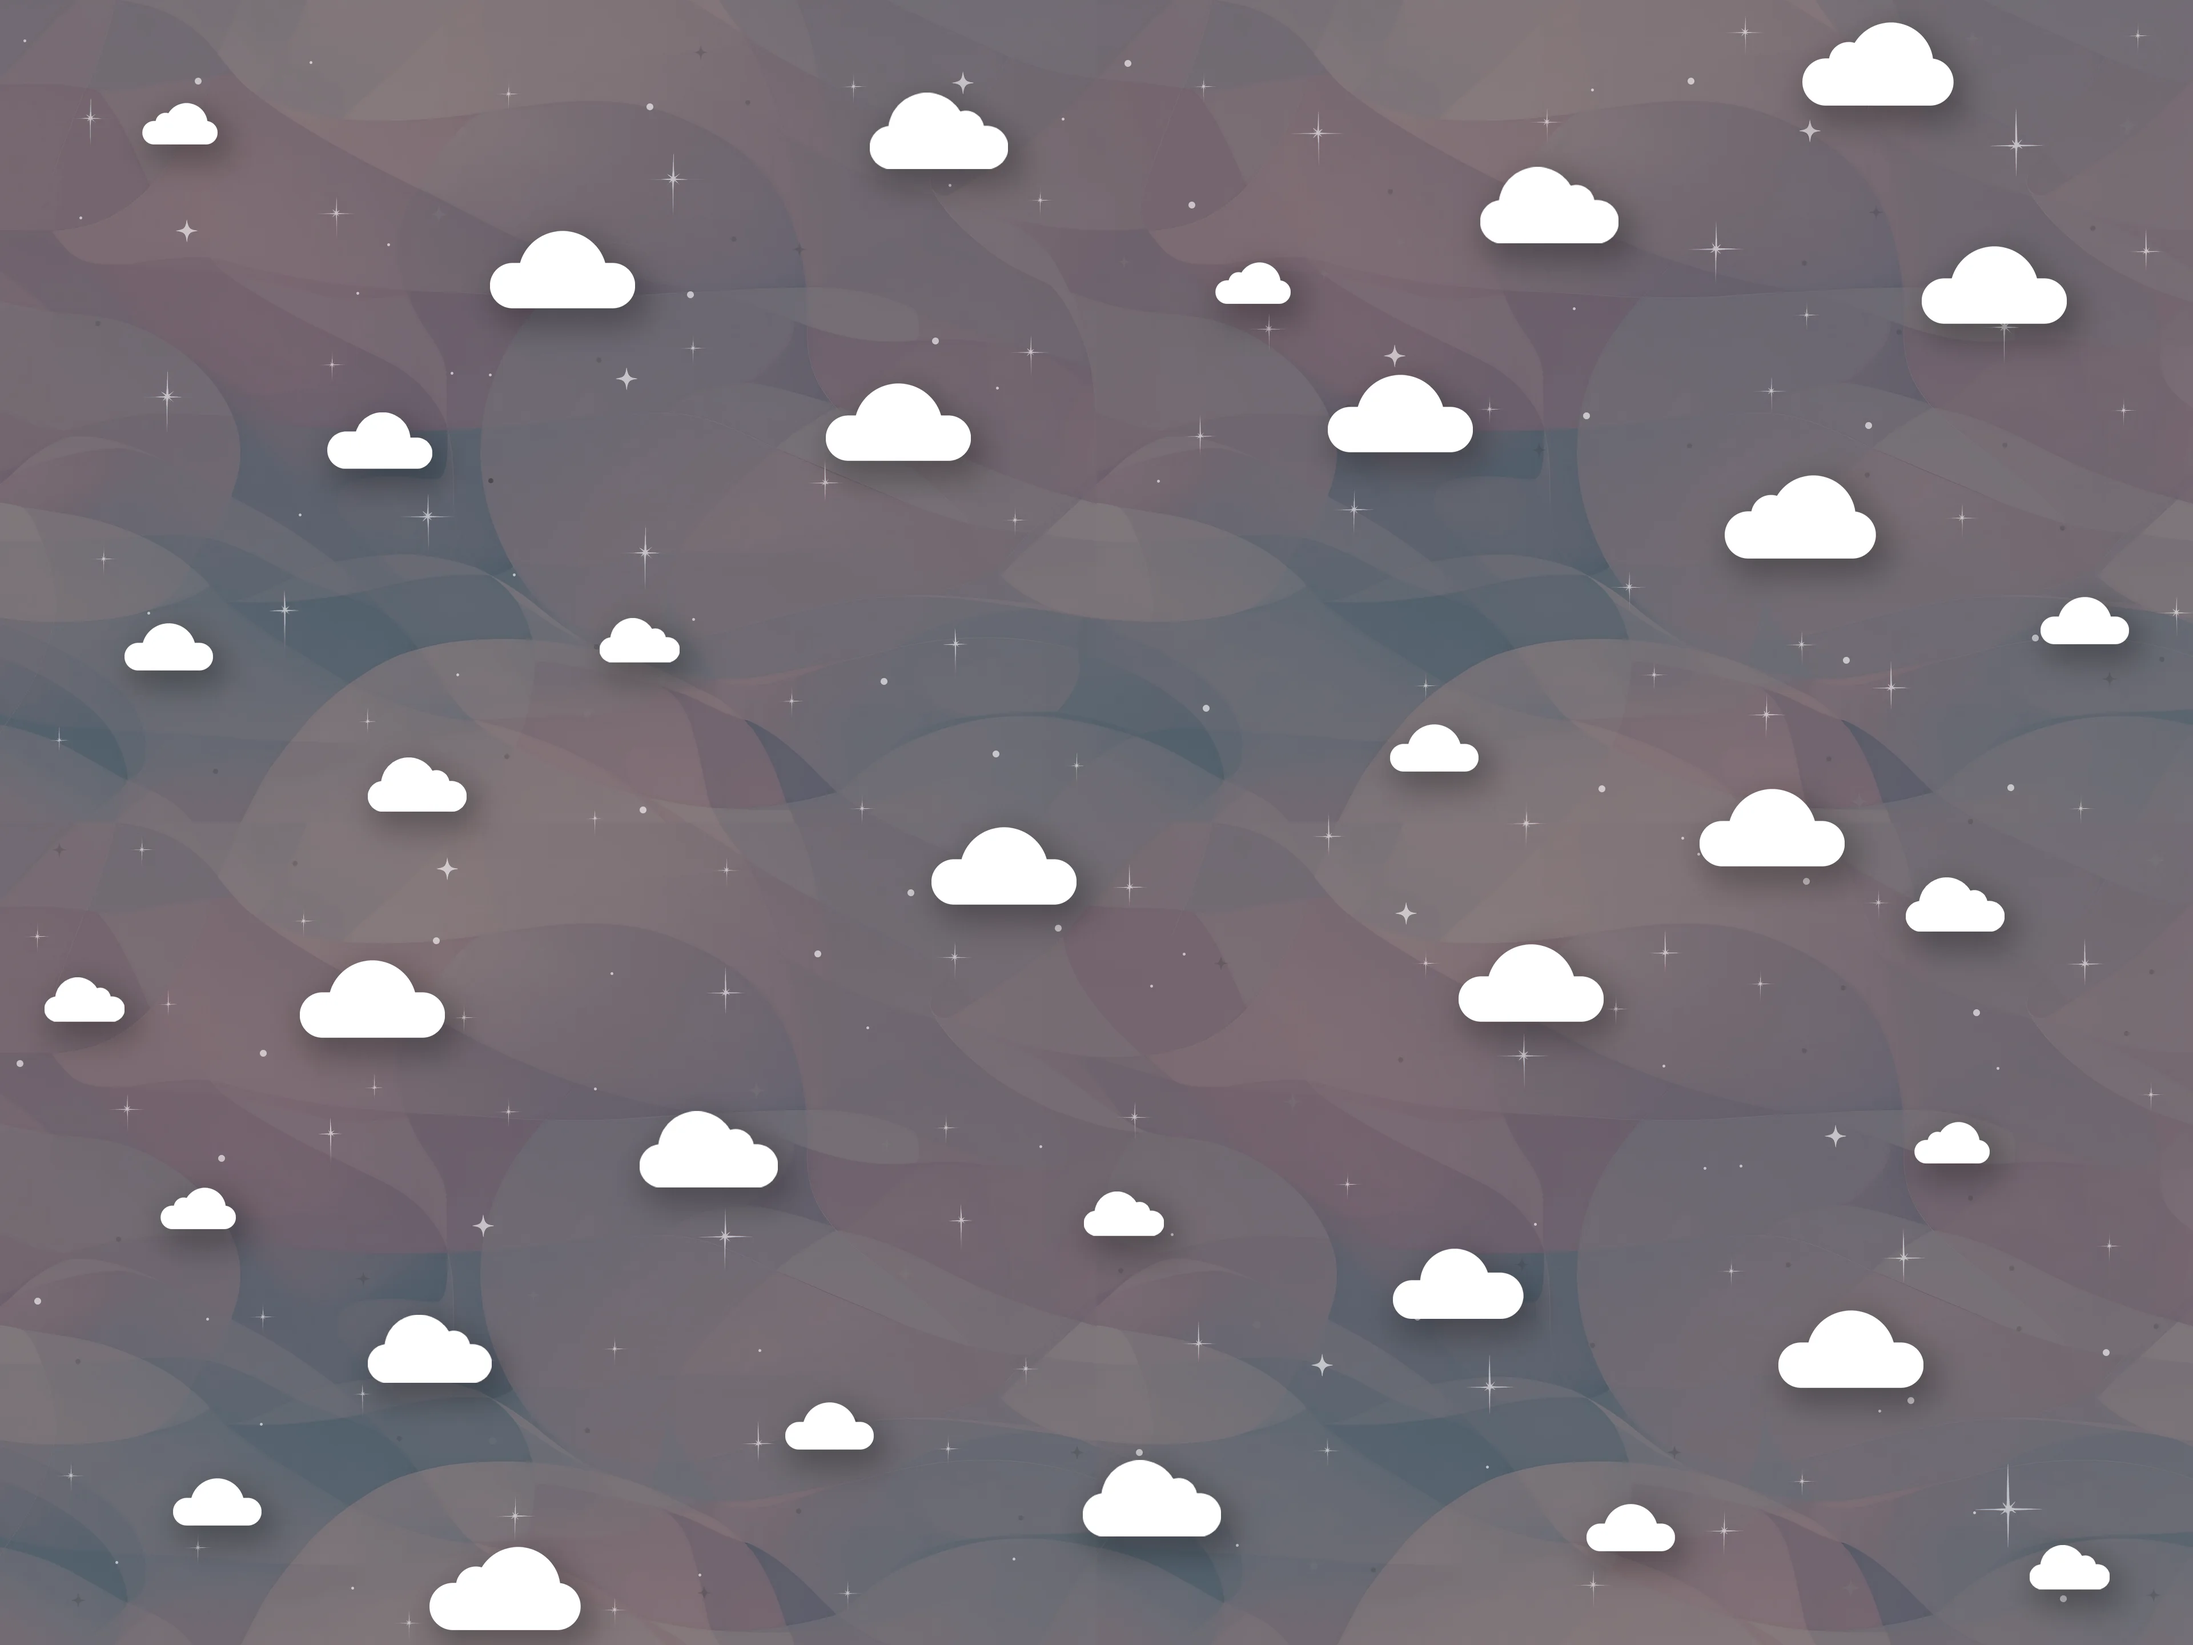
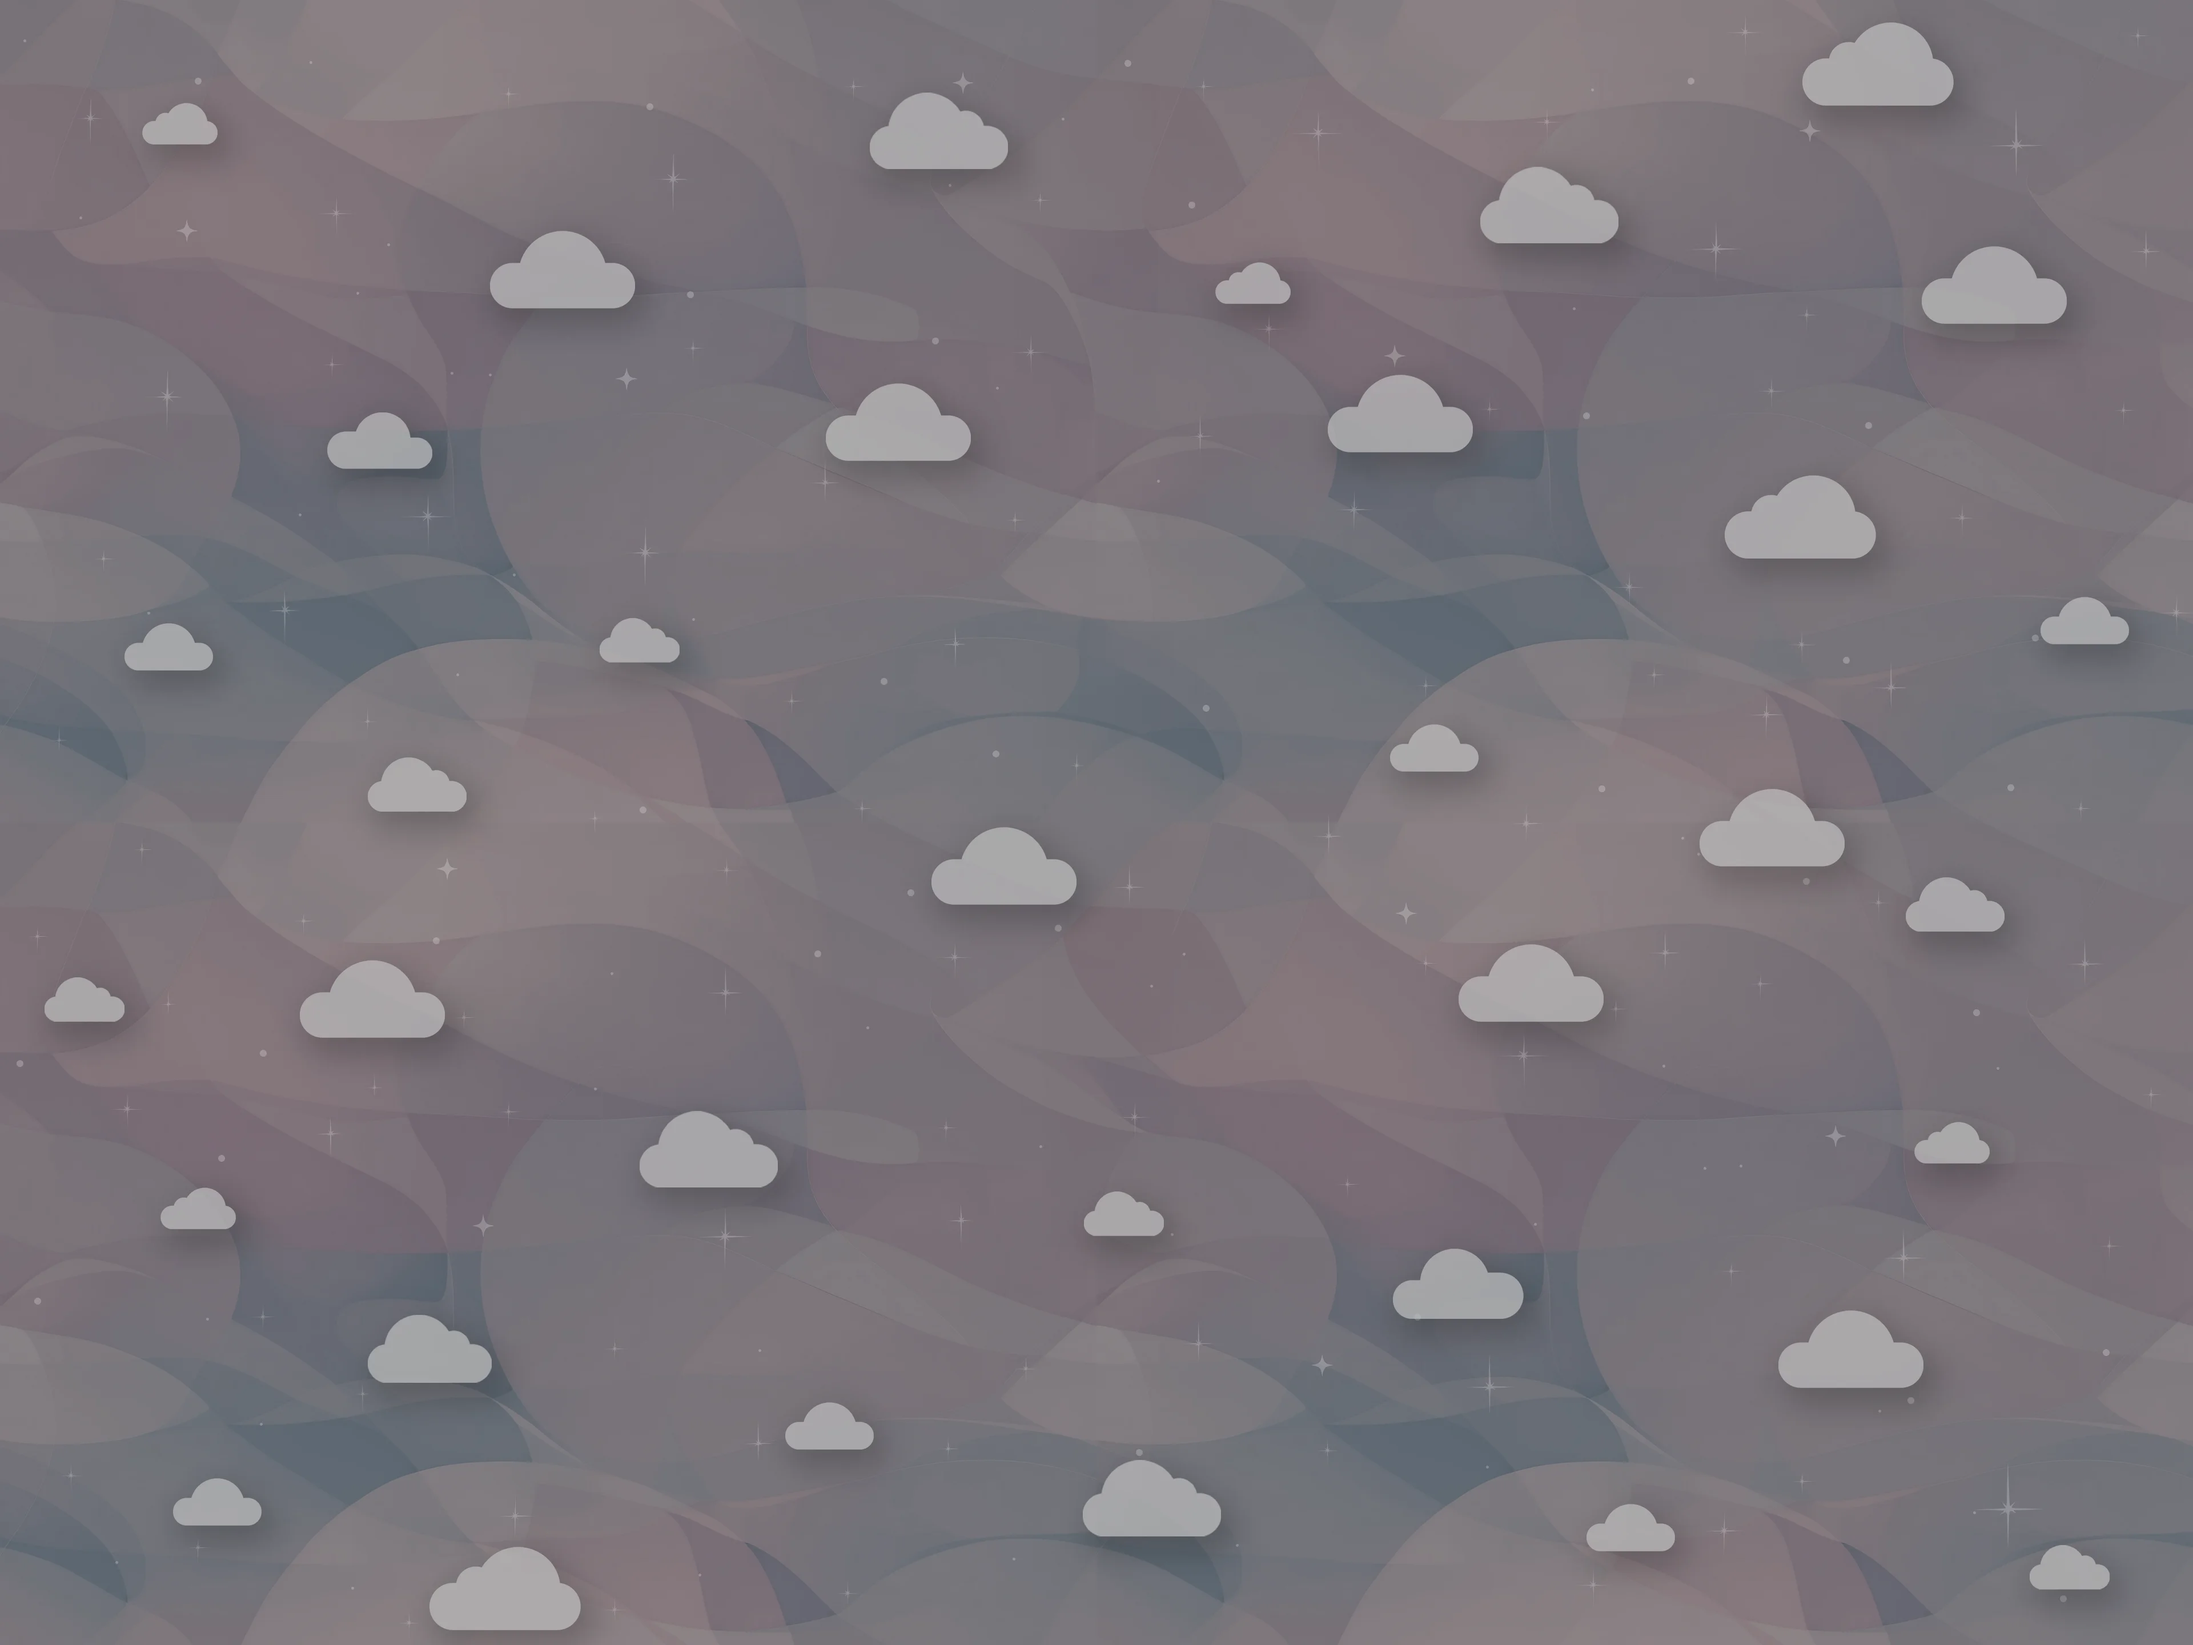
feat: Add and compress 72-opacity cloud images

diff --git a/utilities/compress_images.py b/utilities/compress_images.py
@@ -18,7 +18,7 @@ def compress_images_in_public(size_threshold_kb=500, quality=85):
         None
     """
     # Define the root directory (public folder)
-    public_dir = '../src/assets/clouds'  # Adjust this path if needed
+    public_dir = 'src/assets/clouds'  # Adjust this path if needed
 
     # Supported image formats
     supported_formats = ('.jpg', '.jpeg', '.png')
